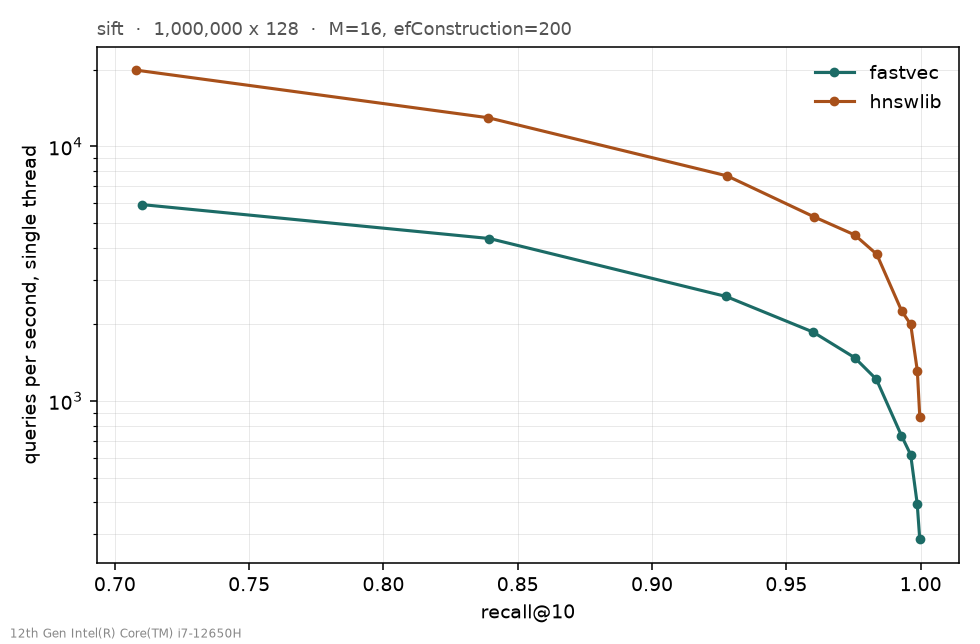
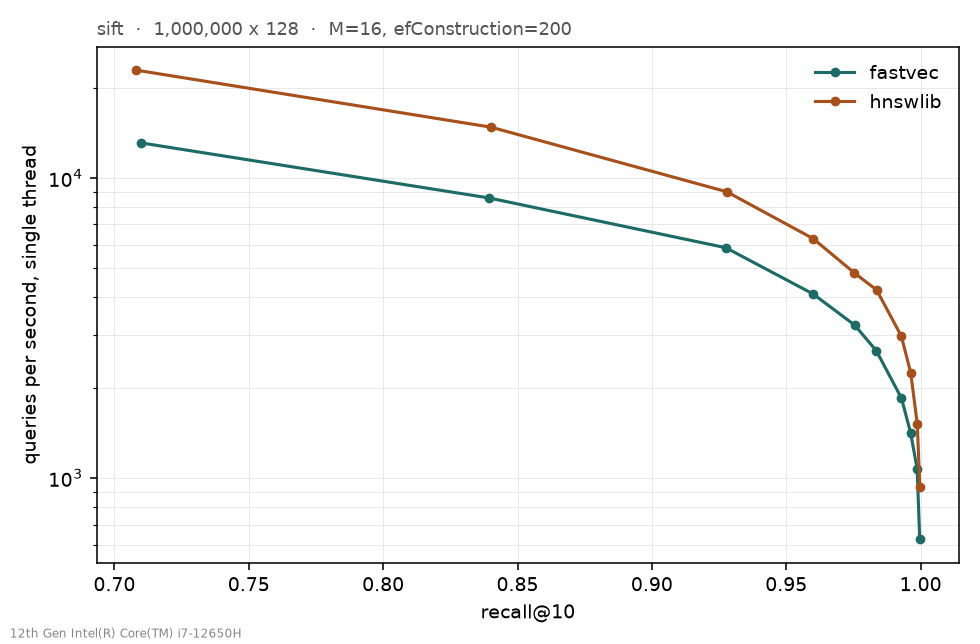
clean sift1m measurement: 1.5-1.75x behind hnswlib at matched recall

diff --git a/docs/benchmarks.md b/docs/benchmarks.md
@@ -9,6 +9,52 @@ computed by Flat), SIFT1M for the headline figures. k=10 throughout.
 
 Distance counts come from a `-tags diagnostic` build. Timings never do.
 
+## Headline, SIFT1M
+
+Both implementations run back to back in one session, machine otherwise idle.
+Load average 0.45 at the start; fastvec held 99% of one core throughout, so
+nothing was competing. M=16, efConstruction=200, single thread.
+
+    ef      fastvec recall / QPS      hnswlib recall / QPS      ratio
+    10      0.7099 / 13079            0.7080 / 22858            1.75x
+    20      0.8395 /  8573            0.8402 / 14756            1.72x
+    40      0.9275 /  5854            0.9278 /  8994            1.54x
+    60      0.9599 /  4109            0.9600 /  6282            1.53x
+    80      0.9754 /  3237            0.9754 /  4824            1.49x
+    100     0.9835 /  2656            0.9836 /  4234            1.59x
+    150     0.9929 /  1846            0.9928 /  2973            1.61x
+    200     0.9963 /  1415            0.9963 /  2244            1.59x
+    300     0.9987 /  1073            0.9988 /  1515            1.41x
+    500     0.9997 /   626            0.9997 /   937            1.50x
+
+Recall matches to three or four decimal places at every point. The graph is as
+good as the reference implementation; the gap is execution speed, 1.5 to 1.75x.
+
+Exact search over the same data does 12 QPS at recall 1.0000, so the index is
+roughly 220x faster than brute force at ef=100 for 1.6% of answers differing.
+
+### Build
+
+    fastvec   11m12s at   99% CPU  =  672 core-seconds
+    hnswlib     83.1s at 1100% CPU  =  914 core-seconds
+
+hnswlib is 8x faster on the clock because it inserts across eleven cores. Per
+core it does 26% more work than this build does. The wall-clock gap is entirely
+parallelism, not inefficiency, and parallel insert is the obvious next step.
+
+Peak RSS 1.21 GB. Levels [1000000 62356 3994 246 26 2], degree min=1 max=32
+mean=21.1, and the bottom layer is one reachable set covering all 1,000,000.
+
+### An earlier run of this was wrong
+
+The first SIFT1M measurement reported 3x slower than hnswlib. That run averaged
+29% CPU over 86 minutes because something else was using the machine, and it
+predated the AVX2 kernel. It also compared against hnswlib numbers taken ten
+days earlier under unknown conditions.
+
+Both of those are why this one runs the two implementations minutes apart on an
+idle machine and records load average and CPU percentage alongside the results.
+
 ## Exact search
 
 Flat, 100k x 128, single thread, three runs: 8.98 / 8.41 / 8.28 ms.
@@ -18,22 +64,10 @@ Flat, 100k x 128, single thread, three runs: 8.98 / 8.41 / 8.28 ms.
 
 8 workers beats 12 and loses to 6. Six P-cores, four E-cores, and the merge
 waits for the slowest. 4.56x from 16 threads, not 16x: each query moves 51 MB in
-1.75 ms, about 29 GB/s, near what the memory delivers. That also caps what AVX2
-can buy later.
+1.75 ms, about 29 GB/s, near what the memory delivers.
 
 SIFT1M: 10,000 queries in 2m45s, 16.5 ms each, 60 QPS on 16 threads, 12 on one.
 Recall 1.0000 against the shipped ground truth.
-
-## hnswlib, the target
-
-M=16, efConstruction=200, single thread, SIFT1M. Build 92.6s.
-
-    ef        10      40      60     100     200     500
-    recall  0.708   0.928   0.960   0.984   0.996   0.9997
-    QPS     19907    7650    5286    3771    1999      864
-
-5286 QPS at 96% recall against our exact 12, so roughly 440x for 4% of the
-answers differing.
 
 ## Stage 1, flat graph
 
@@ -48,8 +82,6 @@ Sweep with MMax = 2M, SIFT-100k:
     ef        10      20      50     100     200
     recall  0.682   0.837   0.950   0.986   0.996
     QPS     10248    6755    3744    2340    1393
-
-Build 48.6s for 100k. 2340 QPS at ef=100 against Flat's 92.
 
 ## Stage 2, layers
 
@@ -89,61 +121,12 @@ fewer: nearest-M never reaches 0.979 anywhere in the sweep, its best being
 accuracy, 36% less work.
 
 Degree min fell from 16 to 2, mean from 25.0 to 19.8. The heuristic rejects
-candidates, so the graph came out sparser and better connected at once. Build
-cost 11%.
-
-## SIFT-100k summary
-
-k=10, single thread:
-
-                        recall    QPS    dist/query
-    Flat (exact)        1.0000     92      100,000
-    stage 1 flat graph  0.9863   2340        1,407
-    stage 2 layered     0.9756   2563        1,327
-    stage 3 heuristic   0.9961   2302        1,421
-
-## Stage 4, SIFT1M against hnswlib
-
-Both single thread, same machine, M=16, efConstruction=200, k=10.
-
-    build       fastvec 23m23s        hnswlib 92.6s
-    levels      [1000000 62356 3994 246 26 2]
-    degree      min=1 max=32 mean=21.1
-    level 0     1 reachable set covering all 1,000,000
-    peak RSS    971 MB
-
-    ef      fastvec recall / QPS      hnswlib recall / QPS
-    10      0.7099 /  5908            0.708  / 19907
-    40      0.9275 /  2575            0.928  /  7650
-    60      0.9599 /  1867            0.960  /  5286
-    100     0.9835 /  1218            0.984  /  3771
-    200     0.9963 /   616            0.996  /  1999
-    500     0.9997 /   287            0.9997 /   864
-
-Recall matches to three decimal places at every point in the sweep. The index
-is as good as hnswlib's; the gap is execution speed, roughly 3x.
-
-Build is 15x slower. hnswlib inserts across all cores, this build is single
-threaded, and the neighbour heuristic costs M^2 distances per selection on top.
-
-### These timings are not trustworthy yet
-
-    User time 1523s   Elapsed 5162s   CPU 29%
-
-The process got under one core's worth over its run, so something was competing
-for the machine. The sweep alone took 63 minutes when it should have taken a
-few. QPS is understated by an unknown amount and the 3x gap is an upper bound.
-
-Recall is unaffected, timing is. Needs a re-run on an idle machine before any of
-these throughput numbers get quoted anywhere.
-
-There is no index persistence yet, so re-measuring means another 23 minute
-build. That is the argument for pulling save/load forward.
+candidates, so the graph came out sparser and better connected at once.
 
 ## AVX2 distance kernel
 
-Same public function, matched benchmarks, two builds. `-tags purego`
-compiles the assembly out entirely.
+Same public function, matched benchmarks, two builds. `-tags purego` compiles
+the assembly out entirely.
 
     scalar   80.09 / 81.50 / 81.74 / 82.17 / 82.41 ns
     avx2     12.25 / 12.57 / 12.71 / 12.72 / 14.07 ns
@@ -167,3 +150,24 @@ Correctness: worst relative error against scalar was 1.64e-06 over 6500 random
 pairs across 14 dimension sizes. Across 2000 trials the kernel never disagreed
 with scalar about which of two vectors was nearer, which is the property that
 actually matters.
+
+## Index persistence
+
+    save   58 MB for the 100k index
+    load   164 ms
+
+Before the buffered word reader it was 613 ms, because binary.Read was being
+called once per value and SIFT1M holds about 150 million of them.
+
+SIFT1M loads in roughly 2 seconds against an 11 minute rebuild, which is what
+makes re-measuring on an idle machine practical.
+
+## SIFT-100k summary
+
+k=10, single thread:
+
+                        recall    QPS    dist/query
+    Flat (exact)        1.0000     92      100,000
+    stage 1 flat graph  0.9863   2340        1,407
+    stage 2 layered     0.9756   2563        1,327
+    stage 3 heuristic   0.9961   2302        1,421

diff --git a/README.md b/README.md
@@ -5,58 +5,70 @@ Vector similarity search engine, written from scratch in Go.
 Implementing HNSW from the paper rather than calling a library, and benchmarking
 it against hnswlib and FAISS on SIFT1M with everything running on a laptop CPU.
 
-Early stage. Setting up the project.
-
-## Plan
-
-1. brute force search first, so I have something correct to compare against
-2. HNSW on top of that
-3. benchmark both against hnswlib on SIFT1M
-4. then try to make it faster: mmap the index, AVX2 distance kernel, product
-   quantization
-
 ## Results
 
-SIFT1M, one million 128-dimensional vectors, single thread, against hnswlib on
-the same machine.
+One million 128-dimensional vectors, single thread. Both implementations run
+back to back in the same session on an idle machine.
 
 ![recall against throughput](bench/plots/recall-qps-sift.png)
 
-    ef      fastvec recall / QPS      hnswlib recall / QPS
-    10      0.7099 /  5908            0.708  / 19907
-    60      0.9599 /  1867            0.960  /  5286
-    100     0.9835 /  1218            0.984  /  3771
-    500     0.9997 /   287            0.9997 /   864
+    ef      fastvec recall / QPS      hnswlib recall / QPS      ratio
+    10      0.7099 / 13079            0.7080 / 22858            1.75x
+    60      0.9599 /  4109            0.9600 /  6282            1.53x
+    100     0.9835 /  2656            0.9836 /  4234            1.59x
+    500     0.9997 /   626            0.9997 /   937            1.50x
 
-Recall matches to three decimal places at every point, so the graph is as good
-as the reference implementation. Throughput is about 3x behind, and build is
-15x slower: hnswlib inserts across all cores, this doesn't.
+Recall matches to three or four decimal places at every point in the sweep, so
+the graph this builds is as good as the reference implementation's. The gap is
+execution speed, 1.5 to 1.75x.
 
 Exact search over the same data does 12 queries/sec at recall 1.000, so the
-index is roughly 100x faster than brute force for 1.6% of answers differing at
-ef=100.
+index is around 220x faster than brute force at ef=100 for 1.6% of answers
+differing.
+
+### Build time
+
+    fastvec   11m12s at   99% CPU  =  672 core-seconds
+    hnswlib     83.1s at 1100% CPU  =  914 core-seconds
+
+hnswlib is 8x faster on the clock because it inserts across eleven cores. Per
+core this build does 26% less work than theirs. The wall-clock gap is entirely
+parallelism, and parallel insert is the next thing worth doing.
+
+### Distance kernel
 
 The distance function is hand-written AVX2 in Go assembly, since Go cannot emit
-vector instructions from normal code. 6.4x on the kernel itself, 1.9x on a whole
-search, with recall unchanged. The gap between those two is the interesting
-part: it puts distance computation at roughly 55% of search time before, 15%
-after. Build with `-tags purego` to compile the assembly out and compare.
+vector instructions from normal code. 6.4x on the kernel, 1.9x on a whole
+search, recall unchanged. The gap between those two puts distance computation at
+roughly 55% of search time before and 15% after.
 
-Caveat on the SIFT1M throughput numbers above: the machine was under load during
-that run and the process averaged 29% CPU, so QPS is understated and the 3x gap
-is an upper bound. Recall is unaffected. Needs a clean re-run, see
-`docs/benchmarks.md`.
+Build with `-tags purego` to compile the assembly out and compare.
 
-Full numbers in `docs/benchmarks.md`, reasoning in `docs/decisions.md`.
+## What is implemented here
+
+No third-party libraries on the query path. The `.fvecs` parser, distance
+kernels, top-k heap, graph construction, search, and on-disk format are all in
+this repository. hnswlib and FAISS appear only as benchmark opponents.
+
+Go standard library only, plus CPU feature detection written by hand rather than
+pulled from `golang.org/x/sys`.
 
 ## Running
 
-    make test
-    make build
+    make test          # unit tests
+    make bench         # HNSW on SIFT1M, sweeps ef, writes JSON
+    make baseline      # hnswlib on the same data
+    make plots         # draw both curves
+
+Benchmarks reuse a saved index, so a re-measure costs seconds rather than the
+11 minute build. Datasets are not in the repo; see `data/README.md`.
 
 ## Machine
 
-Everything is measured on my laptop: i7-12650H, 16 GB RAM, Ubuntu 24.04 on
-WSL2, Go 1.26.5. CPU only.
+Everything measured on one laptop: i7-12650H, 6 P-cores + 4 E-cores, 16 GB,
+Ubuntu 24.04 on WSL2, Go 1.26.5. CPU only. Absolute numbers will differ
+elsewhere; everything compared was run in the same session.
+
+Full numbers in `docs/benchmarks.md`, reasoning in `docs/decisions.md`.
 
 MIT licence.
